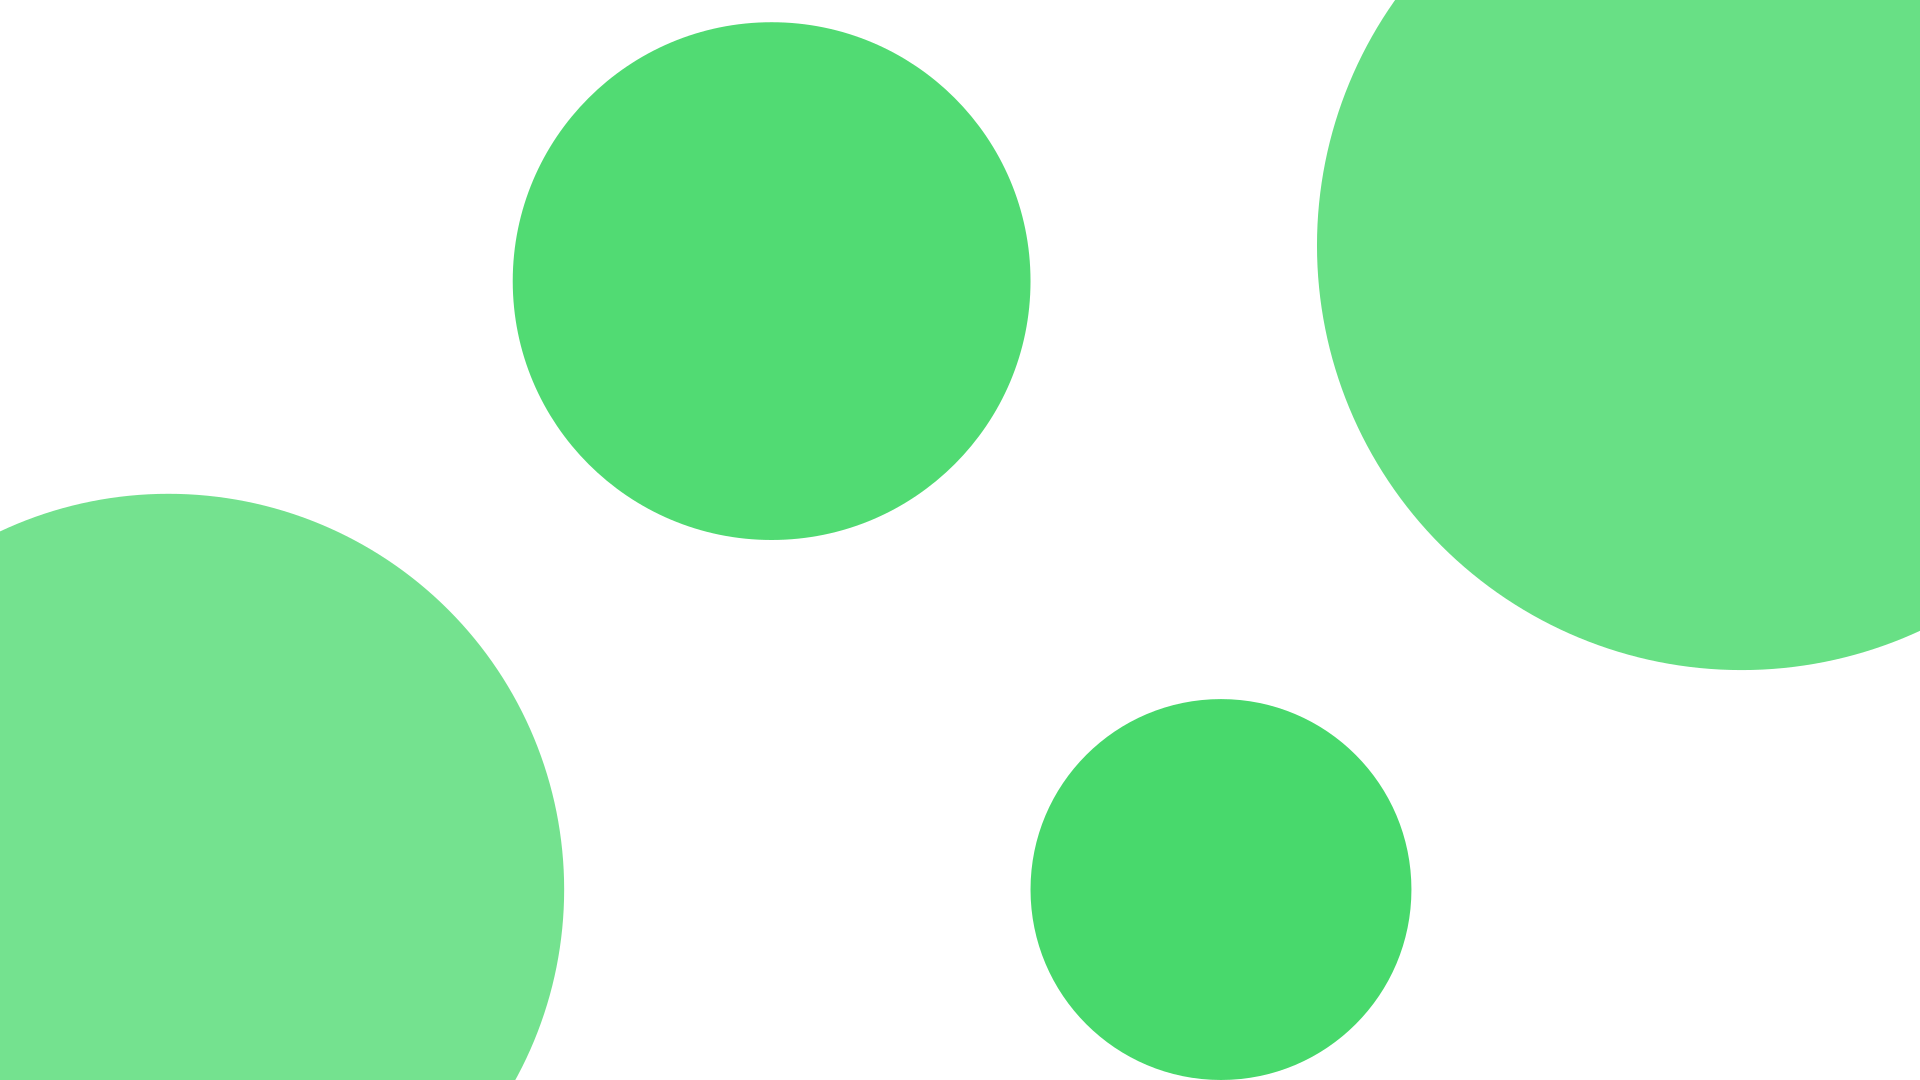
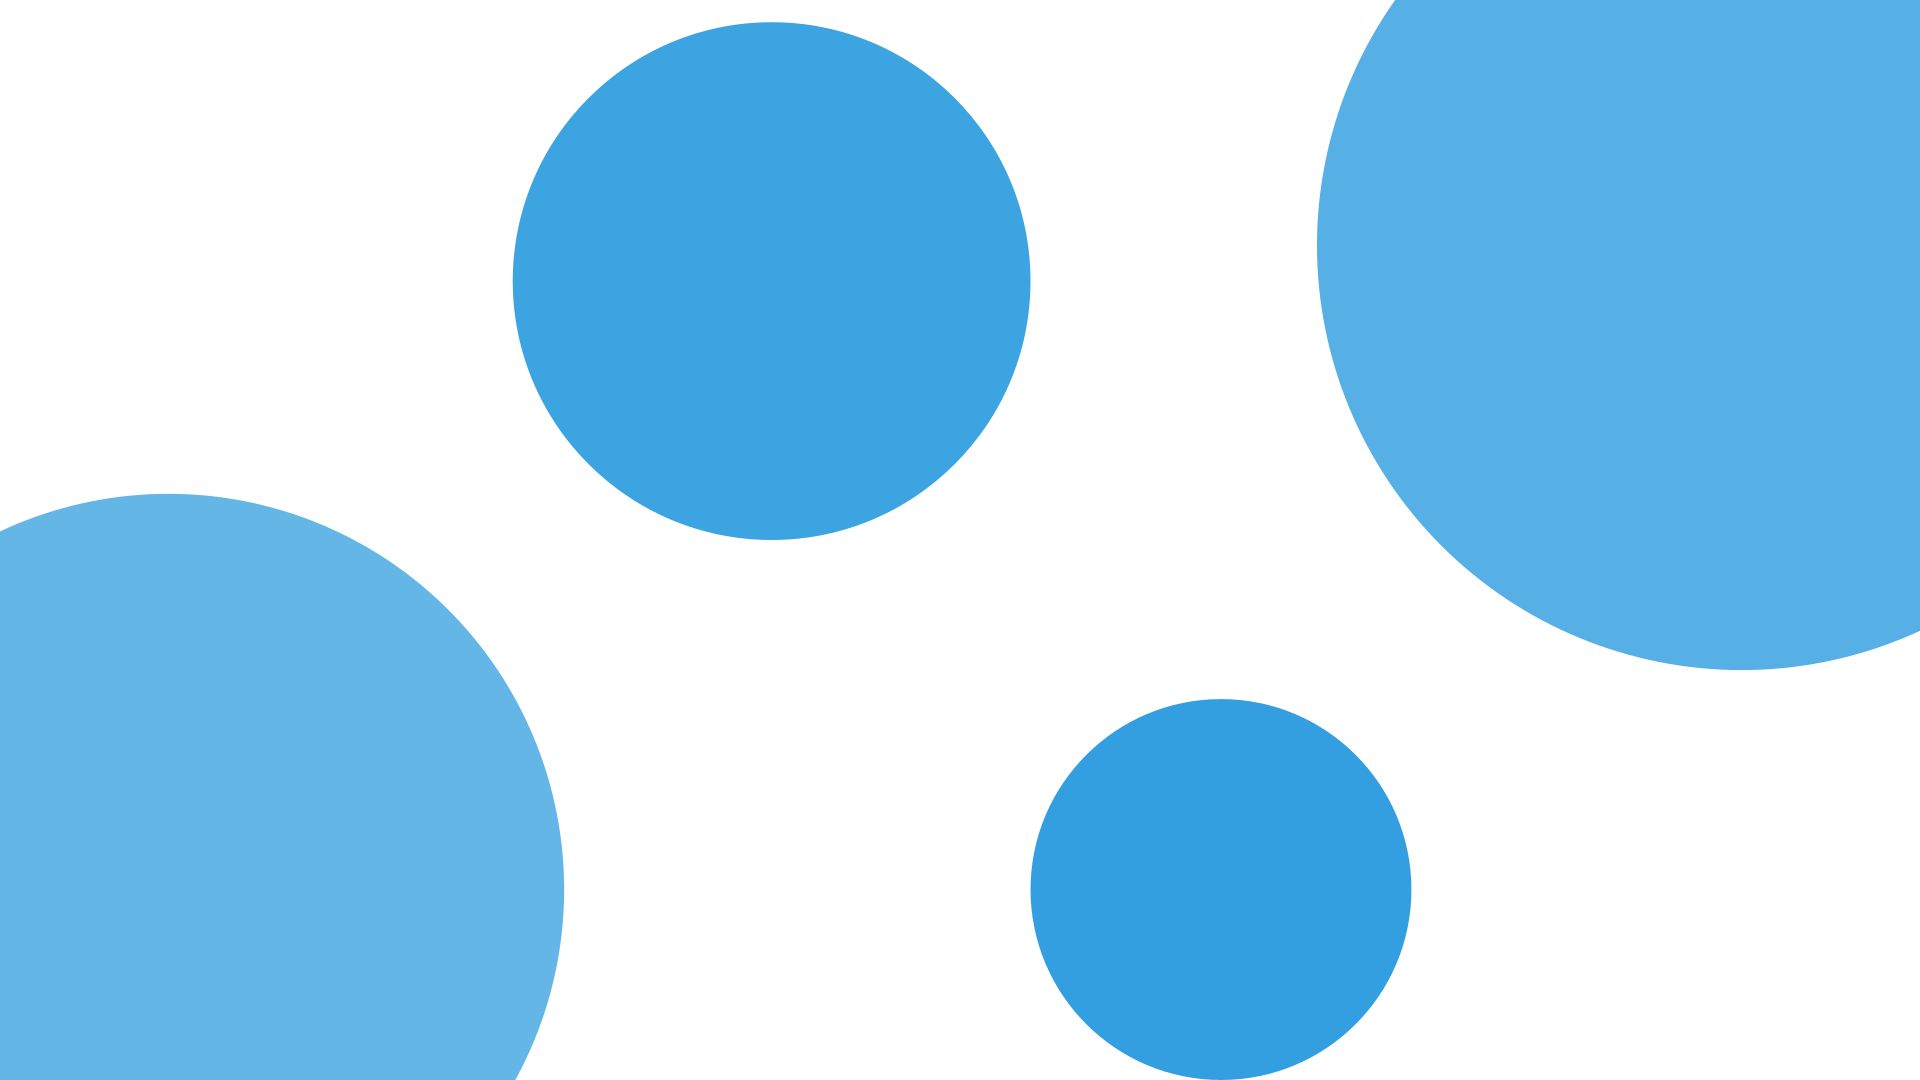
Apply blue theme, new desktop login splash

diff --git a/static/css/main.min.css b/static/css/main.min.css
@@ -1,1 +1,1 @@
-@import url(https://fonts.googleapis.com/css2?family=Alegreya+Sans:wght@500&family=Prompt&family=Roboto&display=swap);:root{--background-variable-opacity:20, 19, 19;--background:#141313;--overlay-variable-opacity:40, 40, 40;--overlay:#282828;--text:#f3e4d8;--accent:#48d96c;--secondary:#339fe0;--success:#43AA8B;--header-height:75px}article,body,footer,html,main{border:0;padding:0;margin:0}header{border:0;margin:0}*{box-sizing:border-box;color:var(--text);font-family:"Alegreya Sans",sans-serif}body,html{min-height:100%;width:100%}body{background-color:var(--background)}h1,h2,h3,h4,h5,h6{font-family:"Roboto",sans-serif}.btn,footer{text-align:center}.btn{background-color:var(--accent);color:var(--background);outline:0;border:0;padding:1em;min-width:5em;height:2.5em;cursor:pointer;transition:all .1s;border-radius:15px;font-family:"Roboto",sans-serif;font-weight:700;text-decoration:none}.btn:hover{transform:scale(110%);opacity:90%;backdrop-filter:blur(25px);box-shadow:0 0 .1em .1em var(--accent)}.btn.danger{background-color:rgba(255,50,50,40%);color:var(--text);height:1em;line-height:0}.btn.danger:hover{box-shadow:none;transform:none}.btn,.btn-circle,.chip{display:flex;justify-content:center;align-items:center}.btn-circle{background-color:var(--accent);border:0;border-radius:50%;width:2em;height:2em;padding:1.5em;cursor:pointer;transition-duration:.1s;opacity:.7}.btn-circle:hover{opacity:1}.btn-circle span{color:var(--background)}.chip{background-color:var(--overlay);padding:5px 25px;border-radius:15px;grid-gap:15px;text-decoration:none;font-weight:700}.chip:hover{opacity:80%;cursor:pointer}.cutout{background:var(--text);background:linear-gradient(90deg,var(--accent) 60%,var(--secondary) 100%);-webkit-background-clip:text;color:transparent}input[type=checkbox]{height:1em;width:1em;accent-color:var(--accent)}.material-symbols-outlined{-webkit-user-select:none;-ms-user-select:none;user-select:none}header,header nav{display:flex;flex-direction:row}header{justify-content:space-between;height:var(--header-height);padding:10px}header a{font-size:125%}header nav{height:100%;justify-content:center;align-items:center;grid-gap:20px;padding:0 15px}header #logo{height:100%;width:auto;cursor:pointer}header #account-pfp{height:2em;width:2em}header #account-pfp img{width:100%;height:100%;border-radius:50%}footer{width:100%;min-height:var(--header-height);padding:5vh;grid-gap:25px}footer,footer .branding,form,main{display:flex;flex-direction:column}footer #back-to-top{min-height:3em;min-width:3em;height:3em;width:3em;border-radius:50%}footer #back-to-top span{font-size:2em;color:var(--background)}footer a,header a{text-decoration:none}footer img{height:50px}footer,form,main{align-items:center}main{width:100%;max-width:100%;min-height:calc(100vh - var(--header-height))}form{grid-gap:10px;justify-content:center}form input:not(.btn){text-align:center;height:inherit;font-size:1.25em}form input:not(.btn),form>:not(.btn,label,h1,h2,h3,h4,h5,h6,p,div){border:1px solid var(--text);outline:0;border-radius:25px;padding:10px;background-color:var(--overlay);color:var(--text)}form input.btn{height:inherit;font-size:1em}
+@import url(https://fonts.googleapis.com/css2?family=Alegreya+Sans:wght@500&family=Prompt&family=Roboto&display=swap);:root{--background-variable-opacity:20, 19, 19;--background:#141313;--overlay-variable-opacity:40, 40, 40;--overlay:#282828;--text:#f3e4d8;--accent:#339fe0;--secondary:#48d96c;--success:#43AA8B;--header-height:75px}article,body,footer,html,main{border:0;padding:0;margin:0}header{border:0;margin:0}*{box-sizing:border-box;color:var(--text);font-family:"Alegreya Sans",sans-serif}body,html{min-height:100%;width:100%}body{background-color:var(--background)}h1,h2,h3,h4,h5,h6{font-family:"Roboto",sans-serif}.btn,footer{text-align:center}.btn{background-color:var(--accent);color:var(--background);outline:0;border:0;padding:1em;min-width:5em;height:2.5em;cursor:pointer;transition:all .1s;border-radius:15px;font-family:"Roboto",sans-serif;font-weight:700;text-decoration:none}.btn:hover{transform:scale(110%);opacity:90%;backdrop-filter:blur(25px);box-shadow:0 0 .1em .1em var(--accent)}.btn.danger{background-color:rgba(255,50,50,40%);color:var(--text);height:1em;line-height:0}.btn.danger:hover{box-shadow:none;transform:none}.btn,.btn-circle,.chip{display:flex;justify-content:center;align-items:center}.btn-circle{background-color:var(--accent);border:0;border-radius:50%;width:2em;height:2em;padding:1.5em;cursor:pointer;transition-duration:.1s;opacity:.7}.btn-circle:hover{opacity:1}.btn-circle span{color:var(--background)}.chip{background-color:var(--overlay);padding:5px 25px;border-radius:15px;grid-gap:15px;text-decoration:none;font-weight:700}.chip:hover{opacity:80%;cursor:pointer}.cutout{background:var(--text);background:linear-gradient(90deg,var(--accent) 60%,var(--secondary) 100%);-webkit-background-clip:text;color:transparent}input[type=checkbox]{height:1em;width:1em;accent-color:var(--accent)}.material-symbols-outlined{-webkit-user-select:none;-ms-user-select:none;user-select:none}header,header nav{display:flex;flex-direction:row}header{justify-content:space-between;height:var(--header-height);padding:10px}header a{font-size:125%}header nav{height:100%;justify-content:center;align-items:center;grid-gap:20px;padding:0 15px}header #logo{height:100%;width:auto;cursor:pointer}header #account-pfp{height:2em;width:2em}header #account-pfp img{width:100%;height:100%;border-radius:50%}footer{width:100%;min-height:var(--header-height);padding:5vh;grid-gap:25px}footer,footer .branding,form,main{display:flex;flex-direction:column}footer #back-to-top{min-height:3em;min-width:3em;height:3em;width:3em;border-radius:50%}footer #back-to-top span{font-size:2em;color:var(--background)}footer a,header a{text-decoration:none}footer img{height:50px}footer,form,main{align-items:center}main{width:100%;max-width:100%;min-height:calc(100vh - var(--header-height))}form{grid-gap:10px;justify-content:center}form input:not(.btn){text-align:center;height:inherit;font-size:1.25em}form input:not(.btn),form>:not(.btn,label,h1,h2,h3,h4,h5,h6,p,div){border:1px solid var(--text);outline:0;border-radius:25px;padding:10px;background-color:var(--overlay);color:var(--text)}form input.btn{height:inherit;font-size:1em}

diff --git a/static/css/auth.min.css b/static/css/auth.min.css
@@ -1,1 +1,1 @@
-body{background-image:url(/static/images/login-circles.svg);background-repeat:no-repeat;background-size:cover}form{background-color:rgba(var(--overlay-variable-opacity),.7);padding:5% 2%;border-radius:25px;width:75%;max-width:750px;backdrop-filter:blur(10px);-webkit-backdrop-filter:blur(10px);grid-gap:15px}form .welcome{display:flex;flex-direction:column;justify-content:center;align-items:center}form .welcome *{margin:10px 0}form input:not(.btn){width:50%;min-width:200px}form input.btn{font-size:1em;width:25%}#social_logins{display:flex;flex-direction:column;grid-gap:10px;margin-top:25px}#social_logins *{margin:0}#social_logins #social_buttons{display:flex;flex-direction:row;grid-gap:25px;align-items:center;justify-content:center}#social_logins #social_buttons img{height:50px;width:auto;border-radius:5px;transition-duration:.05s}#social_logins #social_buttons img:hover{cursor:pointer;scale:110%}footer,header{backdrop-filter:blur(5px);-webkit-backdrop-filter:blur(5px)}header{background-color:rgba(var(--background-variable-opacity),.5);margin-bottom:5%}footer{background-color:rgba(var(--background-variable-opacity),.9);margin-top:5%}@media screen and (max-width:450px){form{width:100%;height:100%;border-radius:0;background-color:transparent;backdrop-filter:none;-webkit-backdrop-filter:none}body{background-image:url(/static/images/login-circles-mobile.svg)}}
+body{background-image:url(/static/images/login-hash.png);background-repeat:no-repeat;background-size:cover}form{background-color:rgba(var(--overlay-variable-opacity),.7);padding:5% 2%;border-radius:25px;width:75%;max-width:750px;backdrop-filter:blur(10px);-webkit-backdrop-filter:blur(10px);grid-gap:15px}form .welcome{display:flex;flex-direction:column;justify-content:center;align-items:center}form .welcome *{margin:10px 0}form input:not(.btn){width:50%;min-width:200px}form input.btn{font-size:1em;width:25%}#social_logins{display:flex;flex-direction:column;grid-gap:10px;margin-top:25px}#social_logins *{margin:0}#social_logins #social_buttons{display:flex;flex-direction:row;grid-gap:25px;align-items:center;justify-content:center}#social_logins #social_buttons img{height:50px;width:auto;border-radius:5px;transition-duration:.05s}#social_logins #social_buttons img:hover{cursor:pointer;scale:110%}footer,header{backdrop-filter:blur(5px);-webkit-backdrop-filter:blur(5px)}header{background-color:rgba(var(--background-variable-opacity),.5);margin-bottom:5%}footer{background-color:rgba(var(--background-variable-opacity),.9);margin-top:5%}@media screen and (max-width:450px){form{width:100%;height:100%;border-radius:0;background-color:transparent;backdrop-filter:none;-webkit-backdrop-filter:none}body{background-image:url(/static/images/login-circles-mobile.svg)}}

diff --git a/static/css/main.css b/static/css/main.css
@@ -15,8 +15,8 @@ font-family: 'Roboto', sans-serif;
     --overlay-variable-opacity: 40, 40, 40;
     --overlay: #282828;
     --text: #f3e4d8;
-    --accent: #48d96c;
-    --secondary: #339fe0;
+    --accent: #339fe0;
+    --secondary: #48d96c;
     --success: #43AA8B;
 
     /* Fixed height values */

diff --git a/static/css/auth.css b/static/css/auth.css
@@ -1,5 +1,5 @@
 body {
-    background-image: url("/static/images/login-circles.svg");
+    background-image: url("/static/images/login-hash.png");
     background-repeat: no-repeat;
     background-size: cover;
 }
